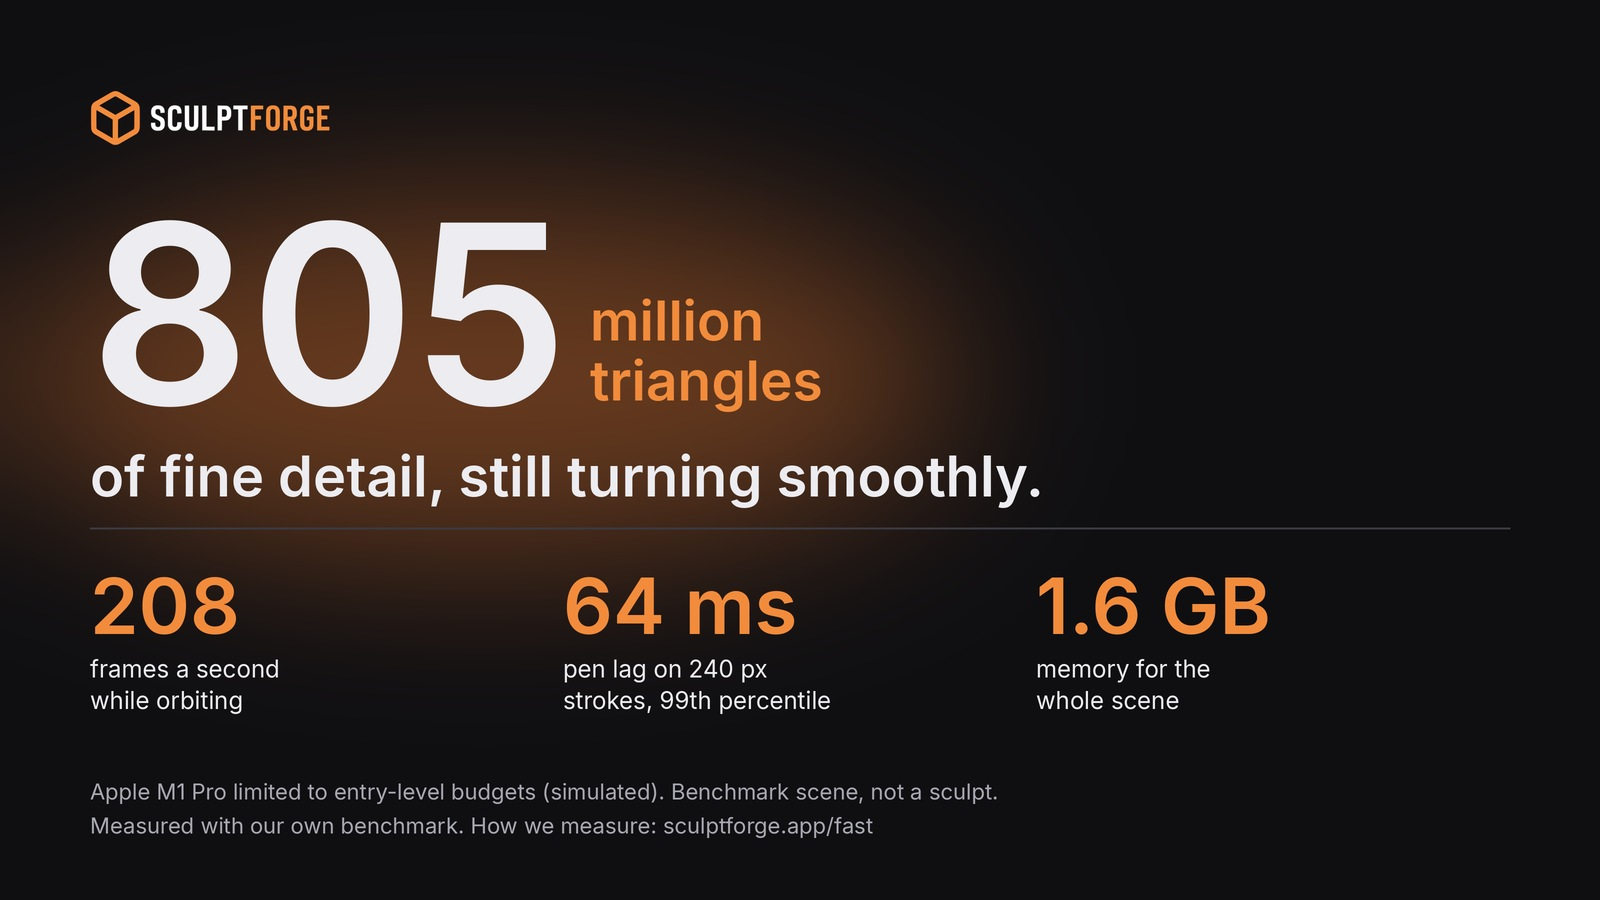
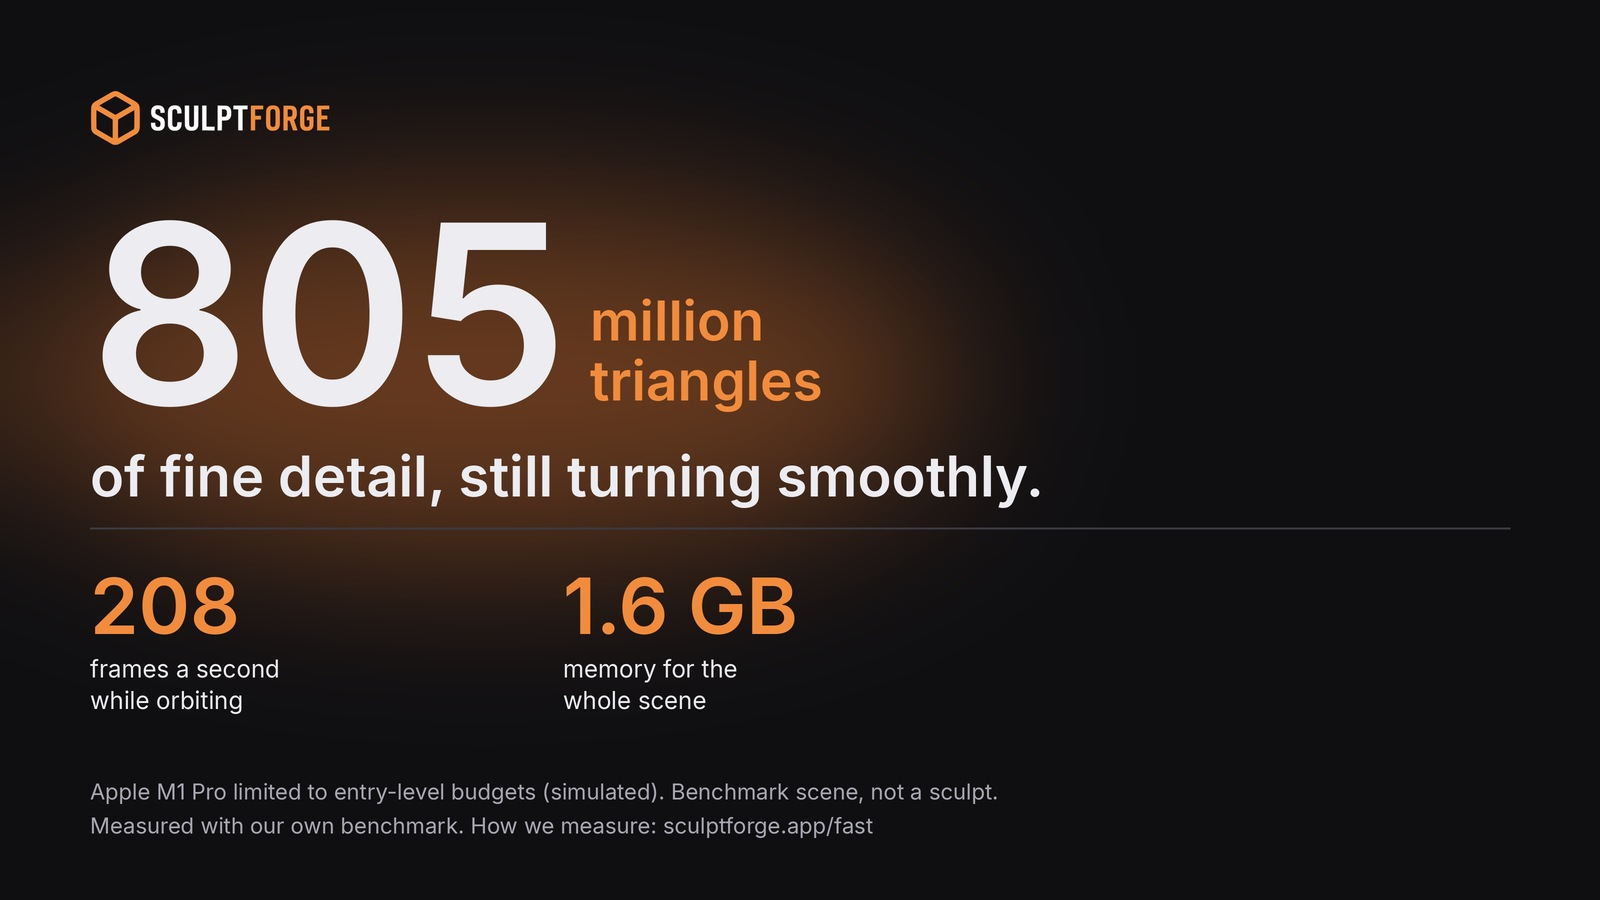
Site: stroke-lag figures held for 0.13.10 (fps, memory and frame time stay) (site data)

Changed region(s): [[0.3438, 0.6222, 0.5312, 0.8089], [0.6562, 0.6222, 0.8125, 0.8089]]

diff --git a/website/index.html b/website/index.html
@@ -111,7 +111,7 @@ b.querySelector(".news-bar-x").onclick=function(){b.hidden=true;try{localStorage
             <a class="btn" href="why.html">Why we're doing this</a>
           </div>
           <p class="hero-note">Linux, macOS and Windows. No account, no subscription.</p>
-          <p class="speed-line">Orbiting 805 million micro triangles in our benchmark scene (not a sculpt) runs at 208 frames a second on an Apple M1 Pro limited to entry-level budgets (simulated), measured on 0.13.10. A 240 px brush stroke trails the pointer by 64 ms at the 99th percentile. <a href="fast/">How we measure &rarr;</a></p>
+          <p class="speed-line">Orbiting 805 million micro triangles in our benchmark scene (not a sculpt) runs at 208 frames a second on an Apple M1 Pro limited to entry-level budgets (simulated), measured on 0.13.10. <a href="fast/">How we measure &rarr;</a></p>
           <p class="first-sculpt"><a href="guide/first-sculpt.html">New to sculpting? Make your first sculpt in 10 minutes &rarr;</a></p>
           <ul class="pills" aria-label="Built for studios">
             <li>VFX Reference Platform</li><li>OpenUSD</li><li>Houdini via USD</li><li>Unreal Engine</li><li>Native Wayland</li><li>Python API</li><li>Classic sculpting keys</li><li>Game-ready LODs</li>
@@ -287,7 +287,7 @@ b.querySelector(".news-bar-x").onclick=function(){b.hidden=true;try{localStorage
         <div class="grid">
           <article class="card">
             <h3>Dense scans that keep up</h3>
-            <p>Orbiting 805 million micro triangles in our benchmark scene (not a sculpt) averages 208 frames a second on an Apple M1 Pro limited to entry-level budgets (simulated), using 1.6 GB of memory; a 240 px brush stroke trails the pointer by 64 ms at the 99th percentile (three runs, measured on 0.13.10).</p>
+            <p>Orbiting 805 million micro triangles in our benchmark scene (not a sculpt) averages 208 frames a second on an Apple M1 Pro limited to entry-level budgets (simulated), using 1.6 GB of memory (median of three runs, measured on 0.13.10).</p>
             <p>A 33-million-triangle head's slowest frame in a full test is 103 ms on the entry-level tier and 132 ms on an RTX 3060. Big brushes still trail the pen. Other numbers are the median of three runs, with the raw results published.</p>
           </article>
           <article class="card">

diff --git a/website/performance/index.html b/website/performance/index.html
@@ -88,10 +88,10 @@
       more detail than a plain mesh. These are the figures we measure with SculptForge's own benchmark, with the
       machine named and the steps to repeat each one.</p>
     <figure style="margin:20px 0">
-      <img src="../media/engine-numbers-805-208.jpg" width="1600" height="900" loading="lazy" style="width:100%;height:auto;border-radius:8px" alt="805 million triangles of fine detail orbiting at 208 frames a second, 64 ms of pen lag at the 99th percentile on 240 px strokes, 1.6 GB of memory, measured on an Apple M1 Pro limited to entry-level budgets (simulated), a benchmark scene and not a sculpt">
+      <img src="../media/engine-numbers-805-208.jpg" width="1600" height="900" loading="lazy" style="width:100%;height:auto;border-radius:8px" alt="805 million triangles of fine detail orbiting at 208 frames a second and 1.6 GB of memory, measured on an Apple M1 Pro limited to entry-level budgets (simulated), a benchmark scene and not a sculpt">
     </figure>
     <ul>
-      <li><strong>208 frames a second</strong> orbiting 805 million micro triangles of fine detail in our benchmark scene (not a sculpt), on an Apple M1 Pro limited to the entry-level tier (simulated), with 1.6 GB of memory for the whole scene. A 240 px brush stroke trails the pointer by 64 ms at the 99th percentile. Median of three runs (208 to 209) on the released 0.13.10.</li>
+      <li><strong>208 frames a second</strong> orbiting 805 million micro triangles of fine detail in our benchmark scene (not a sculpt), on an Apple M1 Pro limited to the entry-level tier (simulated), with 1.6 GB of memory for the whole scene. Median of three runs (208 to 209) on the released 0.13.10.</li>
       <li><strong>237 frames a second</strong> orbiting the same 805-million-triangle scene on a Windows desktop with an AMD Ryzen 5 5600X and an NVIDIA RTX 3060 (median of 4 runs, range 232 to 239; 0.13.9 as released). The scene uses 3.5 to 3.7 GB of memory and 2.6 GB of video memory, and the first stroke has one stall of about 0.3 seconds.</li>
       <li><strong>657 frames a second</strong> orbiting the smaller 104-million-triangle benchmark scene on that desktop (an earlier development build).</li>
       <li><strong>1.2 GB</strong> of memory for the whole application with 201 million triangles of fine detail, on that Windows desktop.</li>

diff --git a/website/benchmarks/index.html b/website/benchmarks/index.html
@@ -142,8 +142,7 @@ sculptforge --benchmark core-100m</code></pre></li>
     <ul>
       <li><strong>What we measured</strong> (three runs, the evening of 2026-11-20 US Mountain time, built from the 0.13.10 tag, commit 4e39ba3a, the program's own JSON for each:
         <a href="raw/tag-0.13.10-floor-core-800m-1.json">run 1</a>, <a href="raw/tag-0.13.10-floor-core-800m-2.json">run 2</a>, <a href="raw/tag-0.13.10-floor-core-800m-3.json">run 3</a>): orbit
-        <strong>208 to 209 frames a second</strong> (median 208); the 240 px Clay stroke <strong>74 to 90 frames a second</strong> with the stroke trailing the pointer by
-        <strong>63 to 66 ms</strong> at the 99th percentile (median 35 ms); the slowest frames of that stroke 37 to 45 ms (99th percentile); worst stall 204 to 217 ms (the first small stroke).
+        <strong>208 to 209 frames a second</strong> (median 208); the 240 px Clay stroke <strong>74 to 90 frames a second</strong>; the slowest frames of that stroke 37 to 45 ms (99th percentile); worst stall 204 to 217 ms (the first small stroke).
         Three runs on one laptop: a range, not a promise.</li>
       <li><strong>The machine</strong>: an Apple M1 Pro laptop (10 cores, 30.9 GB, Linux), 1920 x 1080, vertical sync off, held to SculptForge's entry-level budget with
         <code>SF_HW_SIMULATE=floor</code>. It is a fast laptop slowed down in software, not a real entry-level computer: your numbers will differ, in either direction.</li>
